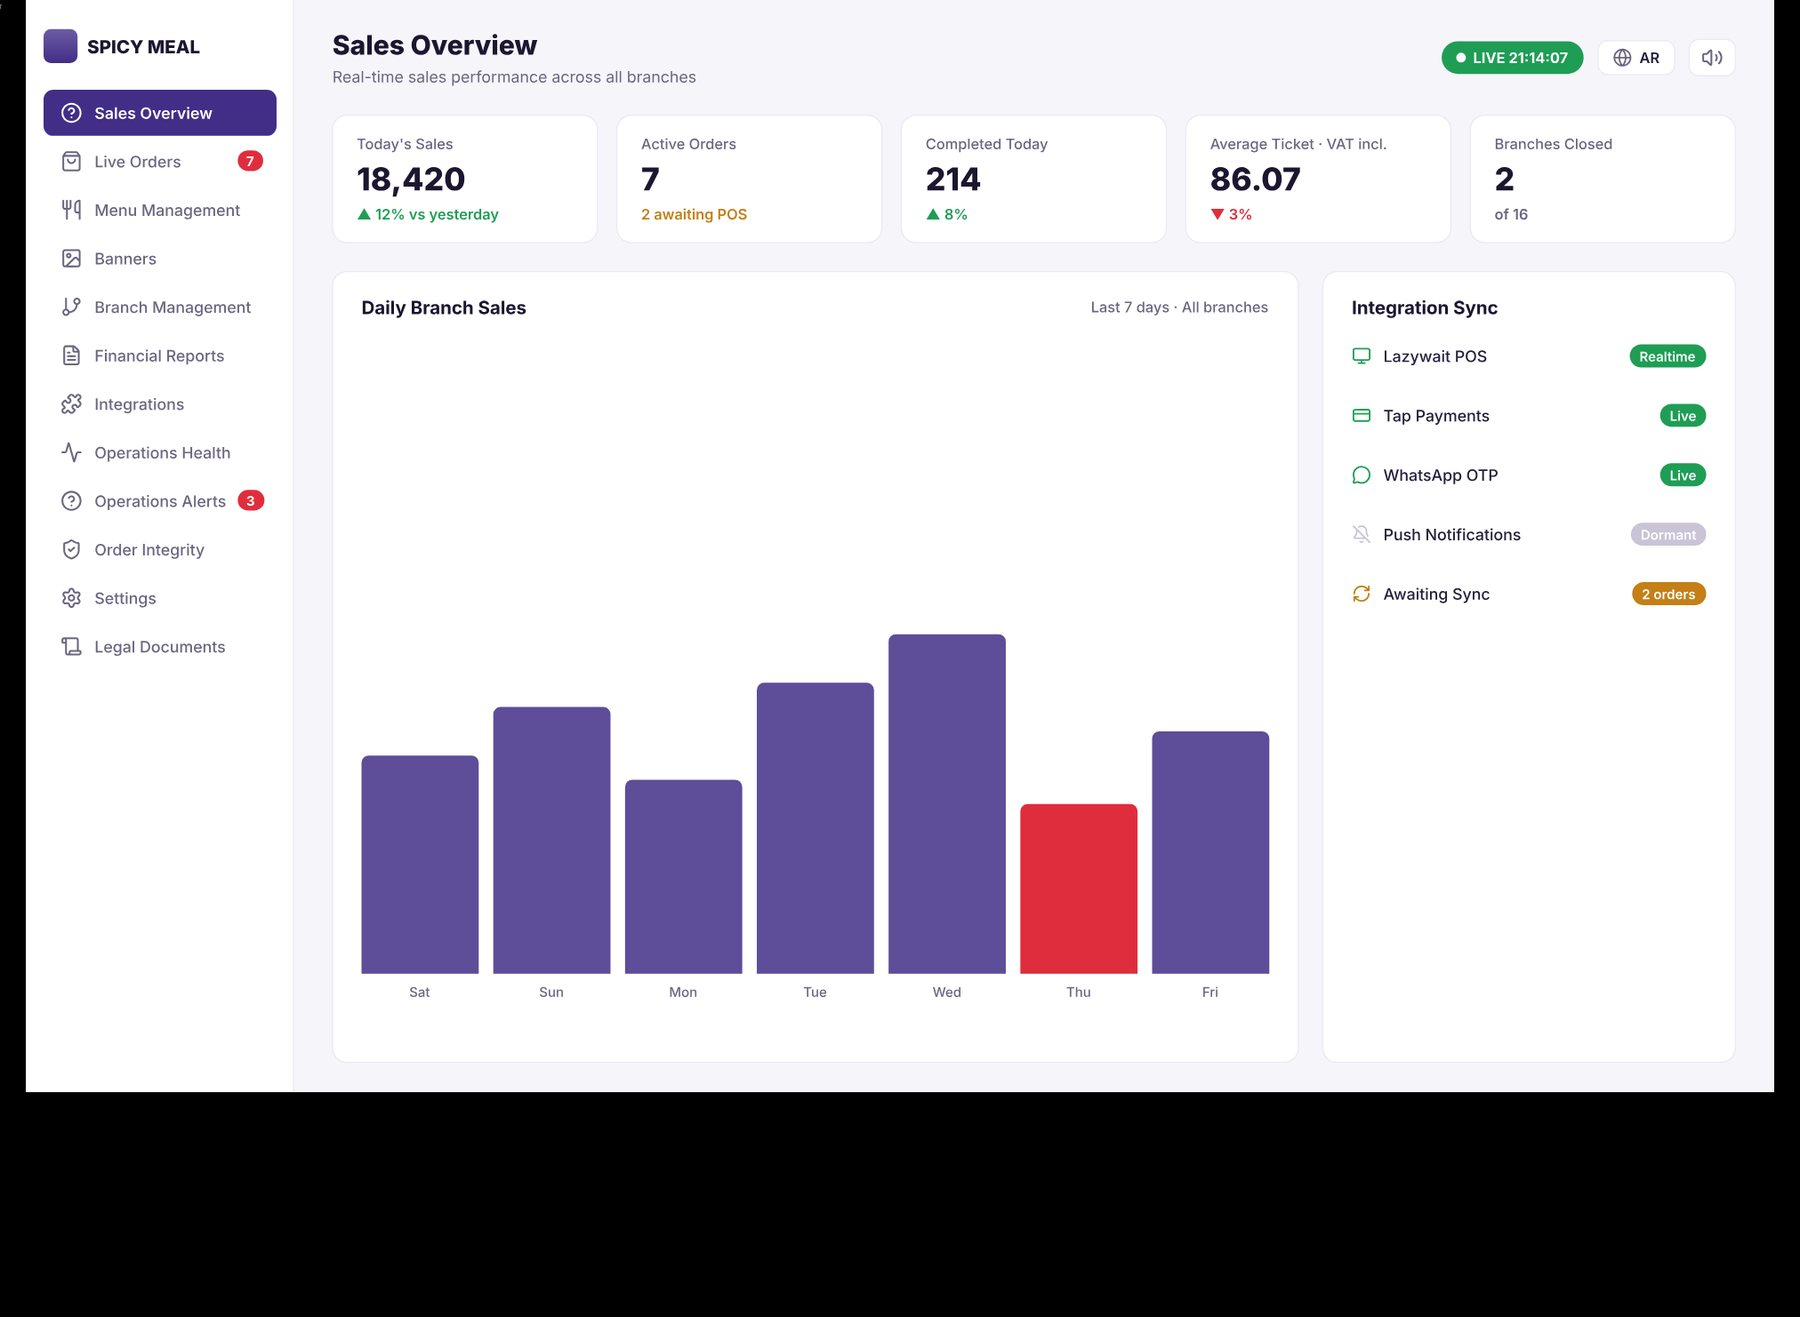
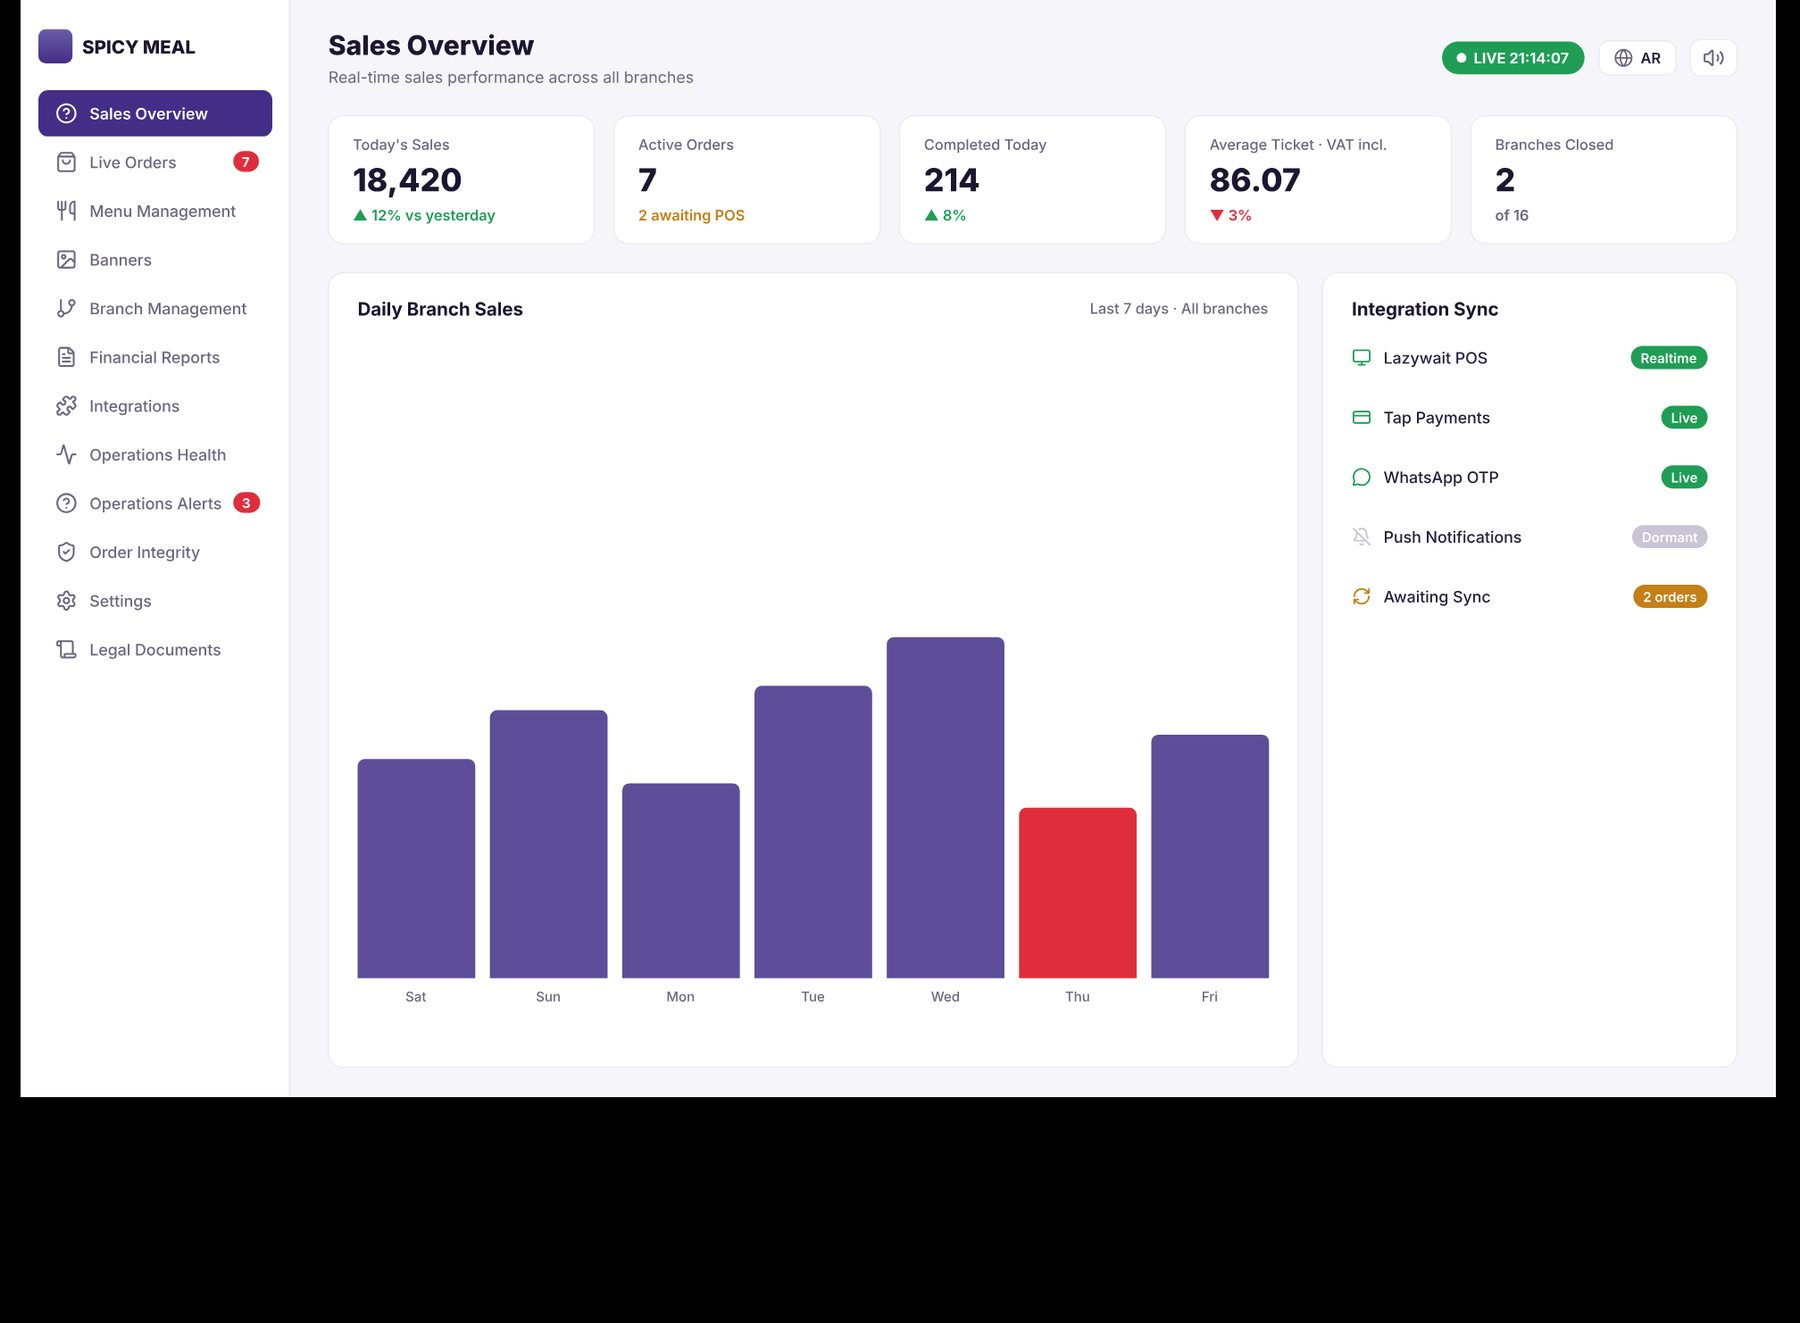
design(07): admin panel exports, canvas-colour slicing, sidebar defect
The export slicer was collapsing the dark-mode Operations Alerts screen
into what it read as empty canvas: averaged across the sheet width, a
dark artboard and the black background have the same brightness, so any
luminance threshold merges them and silently drops the screen. It now
samples the sheet border to learn the actual canvas colour and matches
that exactly, which separates a dark artboard from real gutter.

Logs C4: batch 07's sidebar invents a different navigation from batch
06's, adding four tabs the product does not have and dropping four it
does.

Claude-Session: https://claude.ai/code/session_013aE4qAWLr9uZqQniV5Sm13

diff --git a/design/make-web-exports.py b/design/make-web-exports.py
@@ -44,40 +44,65 @@ def equal_bands(img: Image.Image, aspect: float):
     ]
 
 
-def artboard_bands(img: Image.Image, pad: int = 24):
-    """Split a wide sheet on the dark gutters between artboards.
+def artboard_bands(img: Image.Image, axis: str = "x", pad: int = 24):
+    """Split a sheet on the dark gutters between artboards.
 
-    pen.dev lays a batch out as artboards on a dark canvas. Cutting into equal
-    columns slices screens mid-content; cutting on the gutters keeps each screen
-    whole. Returns None when the sheet has no usable gutters (e.g. one solid
-    artboard), so the caller can fall back to equal columns.
+    pen.dev lays a batch out as artboards on a dark canvas, either in a row or a
+    column. Cutting into equal parts slices screens mid-content; cutting on the
+    gutters keeps each screen whole. `axis` is "x" for a wide sheet (vertical
+    gutters) or "y" for a tall one (horizontal gutters). Returns None when there
+    are no usable gutters, so the caller can fall back to equal parts.
     """
-    small = img.convert("L").resize((img.width // 8, 64), Image.BILINEAR)
-    w = small.width
-    px = small.load()
-    # A column is "gutter" when every sampled pixel is near-black.
-    gutter = [max(px[x, y] for y in range(small.height)) < 40 for x in range(w)]
+    horizontal = axis == "x"
+    span = img.width if horizontal else img.height
+    cross = img.height if horizontal else img.width
+    rgb = img.convert("RGB")
+    px = rgb.load()
+
+    # The canvas colour is whatever dominates the sheet's outer border. Matching
+    # it exactly is the only reliable test: a DARK-MODE artboard averages out to
+    # the same luminance as empty canvas, so any brightness threshold merges the
+    # two and silently drops the dark screen from the output.
+    border = []
+    for i in range(0, span, max(1, span // 200)):
+        border.append(px[i, 0] if horizontal else px[0, i])
+        border.append(px[i, cross - 1] if horizontal else px[cross - 1, i])
+    canvas = max(set(border), key=border.count)
+
+    def is_canvas(c):
+        return all(abs(a - b) <= 10 for a, b in zip(c, canvas))
+
+    step_cross = max(1, cross // 120)
+    step_span = max(1, span // 1200)
+    gutter_at = {}
+    for i in range(0, span, step_span):
+        gutter_at[i] = all(
+            is_canvas(px[i, j] if horizontal else px[j, i])
+            for j in range(0, cross, step_cross)
+        )
+    keys = sorted(gutter_at)
+    n = len(keys)
+    gutter = [gutter_at[k] for k in keys]
     if not any(gutter) or all(gutter):
         return None
 
     bands, run = [], None
-    for x in range(w):
-        if not gutter[x] and run is None:
-            run = x
-        elif gutter[x] and run is not None:
-            bands.append((run, x))
+    for i in range(n):
+        if not gutter[i] and run is None:
+            run = i
+        elif gutter[i] and run is not None:
+            bands.append((run, i))
             run = None
     if run is not None:
-        bands.append((run, w))
+        bands.append((run, n))
 
-    scale = img.width / w
     out = []
     for a, b in bands:
-        left = max(0, int(a * scale) - pad)
-        right = min(img.width, int(b * scale) + pad)
+        lo = max(0, keys[a] - pad)
+        hi = min(span, (keys[b] if b < n else span) + pad)
         # Ignore slivers — label text and stray scratch geometry.
-        if right - left > img.height * 0.25:
-            out.append((left, right))
+        if hi - lo > cross * 0.25:
+            out.append((lo, hi))
     return out or None
 
 
@@ -98,19 +123,20 @@ def process(src: str) -> None:
 
     aspect = img.width / img.height
 
-    if img.height / img.width > TALL_RATIO:
-        # Overlap the halves slightly so nothing is lost at the seam.
-        top = img.crop((0, 0, img.width, int(img.height * 0.52)))
-        bottom = img.crop((0, int(img.height * 0.50), img.width, img.height))
-        emit(top, os.path.join(OUT_DIR, f"{stem}-a.jpg"), SLICE_WIDTH, 84)
-        emit(bottom, os.path.join(OUT_DIR, f"{stem}-b.jpg"), SLICE_WIDTH, 84)
+    if aspect > WIDE_RATIO:
+        bands = artboard_bands(img, "x") or equal_bands(img, aspect)
+        for i, (lo, hi) in enumerate(bands):
+            part = img.crop((lo, 0, hi, img.height))
+            emit(part, os.path.join(OUT_DIR, f"{stem}-{chr(ord('a') + i)}.jpg"), SLICE_WIDTH, 84)
 
-    elif aspect > WIDE_RATIO:
-        bands = artboard_bands(img) or equal_bands(img, aspect)
-        for i, (left, right) in enumerate(bands):
-            part = img.crop((left, 0, right, img.height))
-            label = chr(ord("a") + i)
-            emit(part, os.path.join(OUT_DIR, f"{stem}-{label}.jpg"), SLICE_WIDTH, 84)
+    elif 1 / aspect > TALL_RATIO or (bands := artboard_bands(img, "y")):
+        # A tall sheet is either stacked artboards (split on their gutters) or
+        # one long sheet (split into overlapping halves).
+        if not bands:
+            bands = [(0, int(img.height * 0.52)), (int(img.height * 0.50), img.height)]
+        for i, (lo, hi) in enumerate(bands):
+            part = img.crop((0, lo, img.width, hi))
+            emit(part, os.path.join(OUT_DIR, f"{stem}-{chr(ord('a') + i)}.jpg"), SLICE_WIDTH, 84)
 
 
 def main() -> int:

diff --git a/docs/redesign/PENDEV_DEFECTS.md b/docs/redesign/PENDEV_DEFECTS.md
@@ -19,6 +19,7 @@ other. Left alone they compound.
 | C1 | **Numeral system disagrees.** Batch 02 renders Arabic-Indic numerals on Arabic screens (٣٥ ر.س, ٤٨٠ سعرة); batches 03 and 05 render Western (78.00, 240). Pen.dev's own design-system sheet (batch 01) specifies Arabic-Indic in Arabic context, so 03/05 contradict the system they were handed. | 02 vs 03, 05 | **needs owner decision** |
 | C1b | The numeral inconsistency now spans the admin surface too — batch 06's Live Orders and Financial Reports use Western numerals. Whatever C1 resolves to must be applied to both surfaces. | 06 | **needs owner decision** |
 | C2 | **Bottom tab bar labels disagree.** Batch 02 is correct — الرئيسية / طلباتي / حسابي (Home / Orders / Account). Batch 05 renders الرئيسية / القائمة / حسابي, inventing a "Menu" tab. The product has exactly three tabs and no separate Menu tab: home *is* the menu. | 05 | open |
+| C4 | **The admin sidebar is a different product between batches.** Batch 06 renders the real twelve tabs (Sales Overview, Live Orders, Menu Management, Banners, Branch Management, Financial Reports, Integrations, Operations Health, Operations Alerts, Order Integrity, Settings, Legal Documents). Batch 07 invents its own — Dashboard, Orders, Menu, Branches, **Customers**, **Payments**, **Promotions**, **Delivery**, Reports, Operations, Settings, Integrations — adding four tabs that do not exist and dropping Banners, Order Integrity, Operations Health and Legal Documents. The sidebar is the shell every admin screen shares, so two batches now depict two different applications. Cause: the prompt said "reuse the same shell" instead of pinning the twelve labels verbatim in every admin prompt. | 06 vs 07 | open |
 | C3 | **RTL sentence punctuation.** Full stops land at the start of a wrapped Arabic line instead of the end (e.g. the below-minimum warning, the addresses hint). A bidi/pilcrow handling issue in the text runs. | 03, 05 | open |
 
 ## Batch 02 — ordering loop
